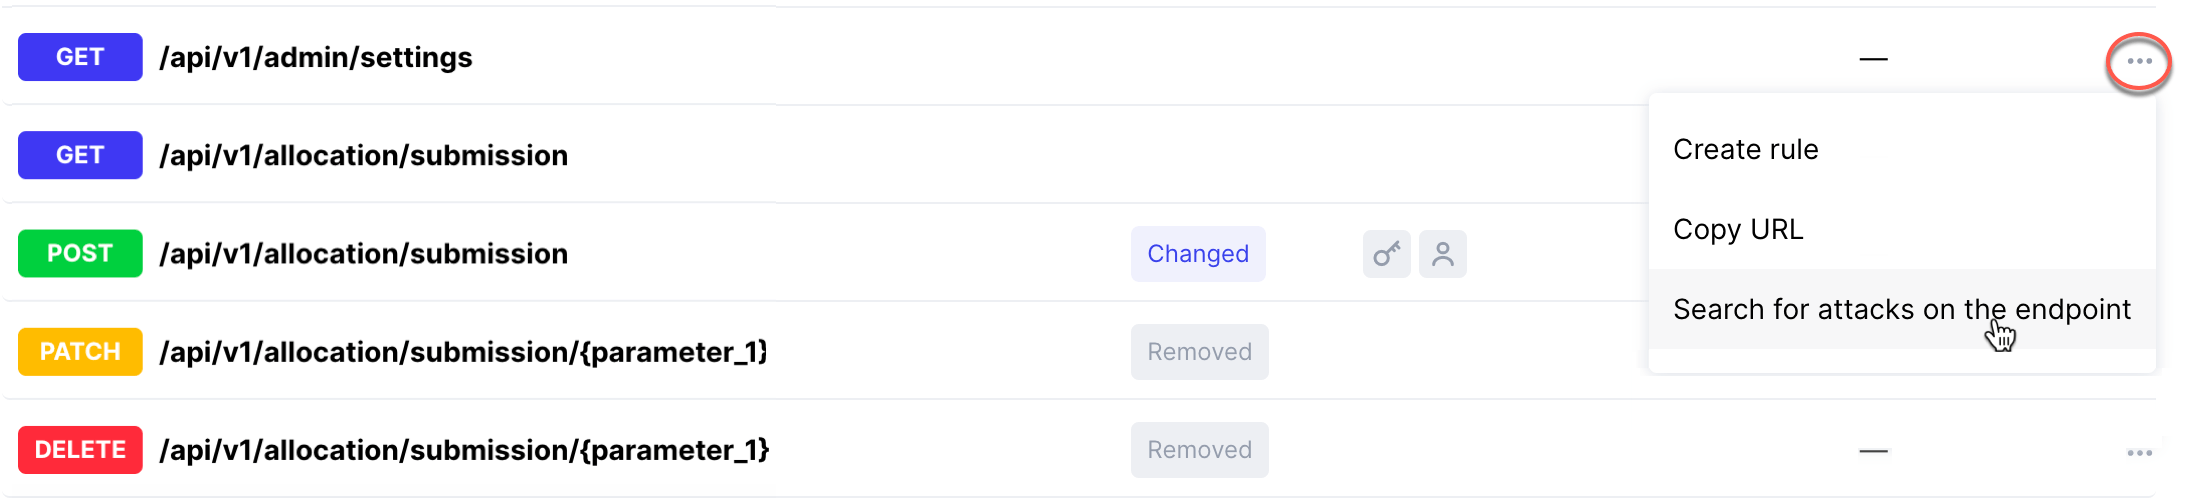
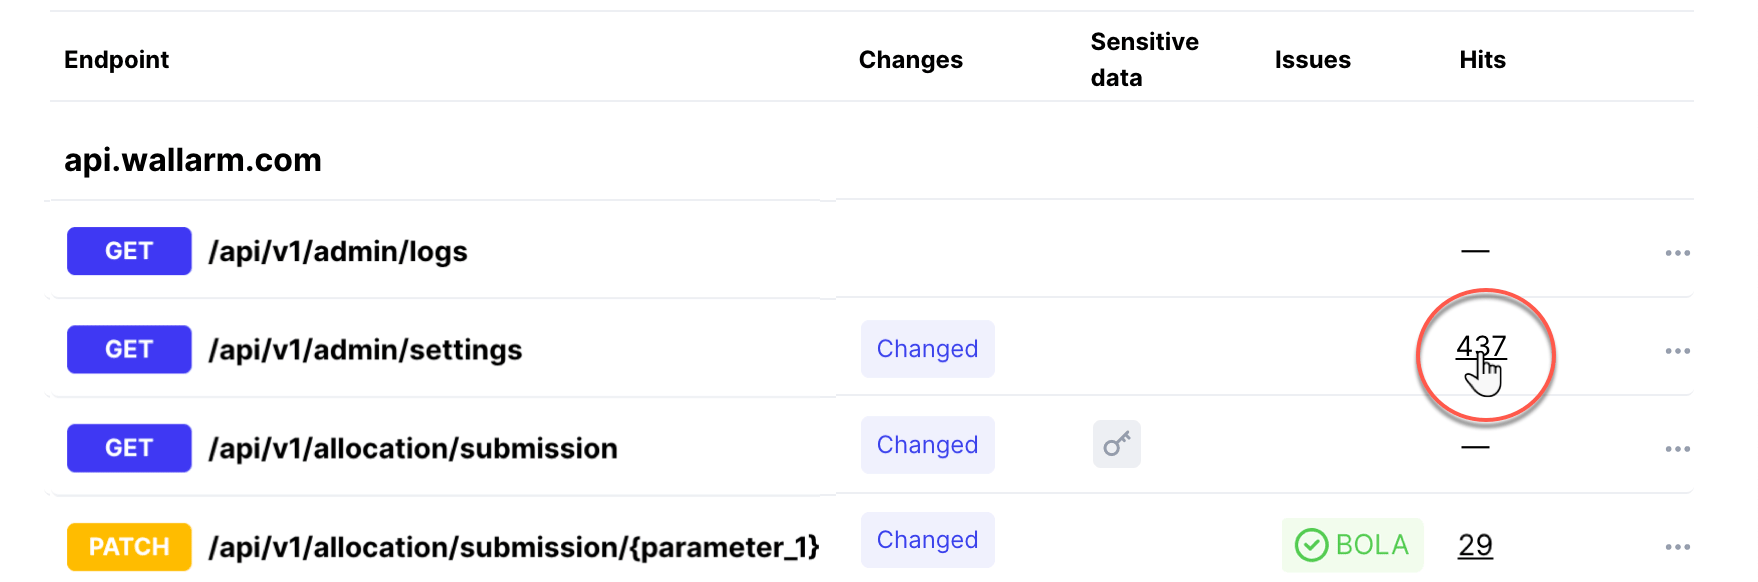
DOCS-1820 Fixes due to changes

diff --git a/docs/latest/user-guides/api-discovery.md b/docs/latest/user-guides/api-discovery.md
@@ -72,7 +72,7 @@ Selecting values from this filter will show only the endpoints correspondingly c
 
 ## API structure and related events
 
-To see attacks and incidents for the last 7 days related to some endpoint, in the endpoint menu select **Search for attacks on the endpoint**:
+To see attacks and incidents for the last 7 days related to some endpoint, click number in the **Hits** column:
 
 ![!API endpoint - open events](../images/about-wallarm-waf/api-discovery/endpoint-open-events.png)
 
